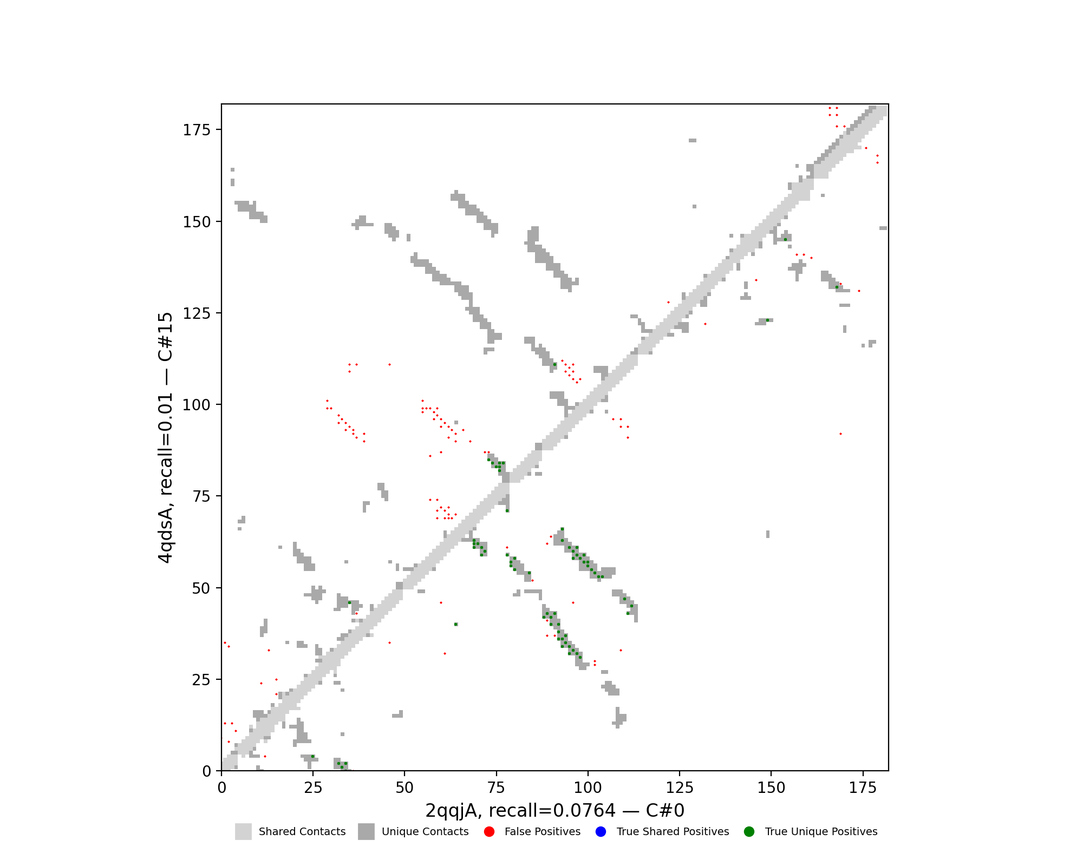
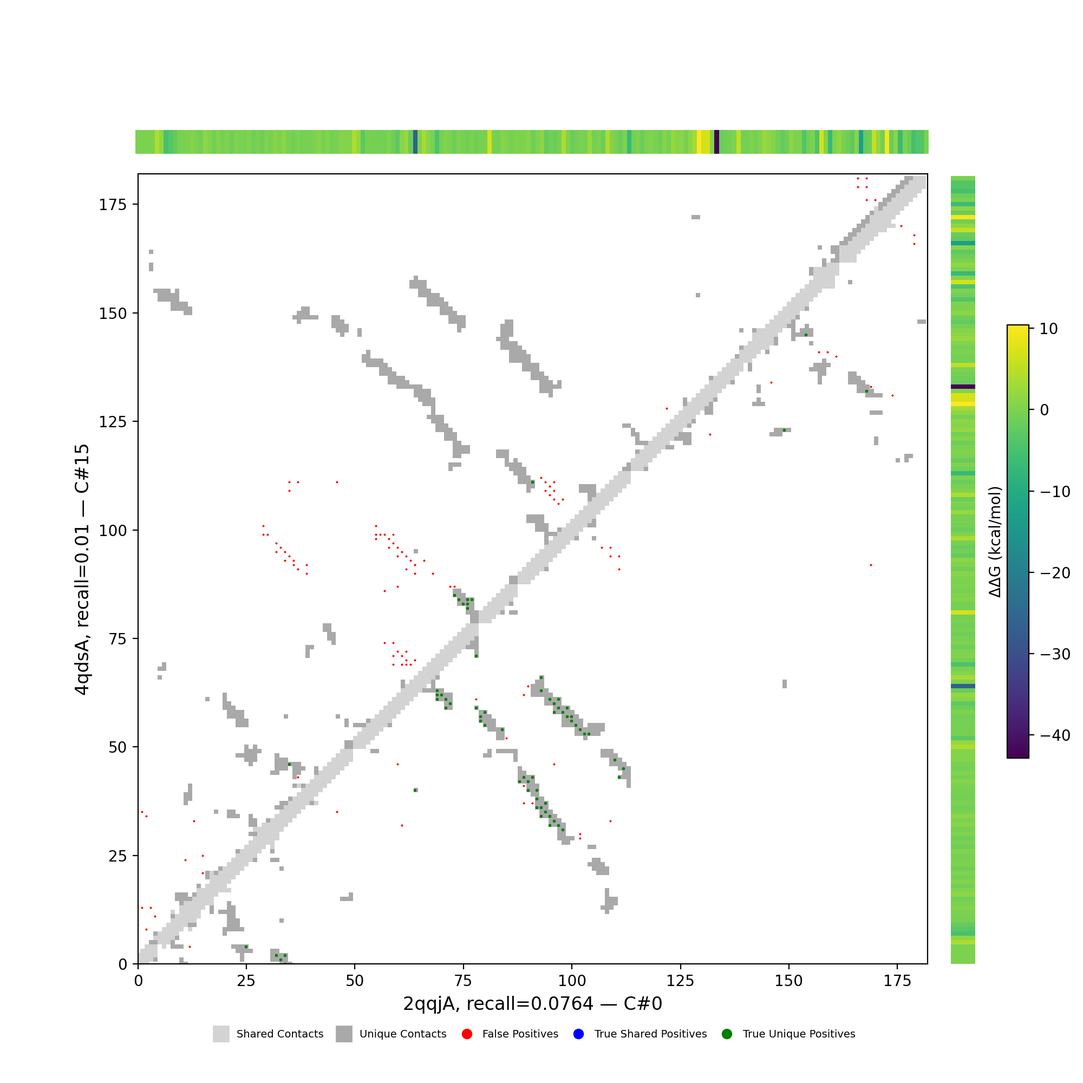
Add ΔG columns and per-pair ΔΔG table for 2qqjA_4qdsA

diff --git a/docs/HTML/2qqjA_4qdsA.html b/docs/HTML/2qqjA_4qdsA.html
@@ -142,8 +142,11 @@
     </div></div><div class="figure-block">
     <h2 class="figcap">Figure 13: All clusters contact-map mosaic (small multiples).</h2>
     <figure class="imgbox"><img src="figs/2qqjA_4qdsA/2qqjA_4qdsA_all_clusters_cmap.png"/></figure>
-    </div><h2>Per-cluster contact maps</h2><div class="figure-block tree">
-    <h2 class="figcap">Figure 14: Phylogenetic tree with per-cluster heatmap.</h2>
+    </div><h2>Per-cluster contact maps</h2><div class="figure-block">
+    <h2 class="figcap">Figure 14: Aligned per-residue ΔΔG (seq alignment overlay).</h2>
+    <figure class="imgbox"><img src="figs/2qqjA_4qdsA/2qqjA_4qdsA_ddg_aligned.png"/></figure>
+    </div><div class="figure-block tree">
+    <h2 class="figcap">Figure 15: Phylogenetic tree with per-cluster heatmap.</h2>
     <figure class="imgbox"><img src="figs/2qqjA_4qdsA/2qqjA_4qdsA_phytree_cluster.png"/></figure>
     </div><div class="table-wrap"><h2>Cluster metrics table</h2><table><tr><th>cluster</th><th>TM-AF1</th><th>TM-AF2</th><th>TM-ESM1</th><th>TM-ESM2</th><th>RE-MSAT-COM</th><th>RE-MSAT1</th><th>RE-MSAT2</th></tr><tr><td>Deep</td><td>0.99</td><td>0.52</td><td>-</td><td>-</td><td>-0.01</td><td>-0.01</td><td>-0.01</td></tr><tr><td>000</td><td>0.98</td><td>0.52</td><td>0.97</td><td>0.59</td><td>-0.01</td><td>-0.01</td><td>-0.01</td></tr><tr><td>001</td><td>0.96</td><td>0.52</td><td>0.97</td><td>0.6</td><td>-0.0</td><td>-0.0</td><td>-0.0</td></tr><tr><td>002</td><td>0.96</td><td>0.51</td><td>0.97</td><td>0.54</td><td>-0.0</td><td>-0.0</td><td>-0.0</td></tr><tr><td>003</td><td>0.62</td><td>0.5</td><td>0.97</td><td>0.66</td><td>-0.01</td><td>-0.0</td><td>-0.0</td></tr><tr><td>004</td><td>0.56</td><td>0.57</td><td>0.97</td><td>0.62</td><td>0.0</td><td>-0.0</td><td>-0.0</td></tr><tr><td>005</td><td>0.97</td><td>0.51</td><td>0.97</td><td>0.57</td><td>-0.0</td><td>-0.0</td><td>-0.0</td></tr><tr><td>006</td><td>0.96</td><td>0.52</td><td>0.97</td><td>0.58</td><td>-</td><td>-</td><td>-</td></tr><tr><td>007</td><td>0.73</td><td>0.58</td><td>0.97</td><td>0.52</td><td>-0.0</td><td>-0.0</td><td>-0.0</td></tr><tr><td>008</td><td>0.56</td><td>0.5</td><td>0.97</td><td>0.56</td><td>0.01</td><td>-0.0</td><td>-0.0</td></tr><tr><td>009</td><td>0.96</td><td>0.51</td><td>0.97</td><td>0.56</td><td>-</td><td>-</td><td>-</td></tr><tr><td>010</td><td>0.96</td><td>0.51</td><td>0.97</td><td>0.52</td><td>-</td><td>-</td><td>-</td></tr><tr><td>011</td><td>0.96</td><td>0.52</td><td>0.97</td><td>0.53</td><td>-</td><td>-</td><td>-</td></tr><tr><td>012</td><td>0.58</td><td>0.6</td><td>0.97</td><td>0.52</td><td>-0.0</td><td>-0.0</td><td>-0.0</td></tr><tr><td>013</td><td>0.58</td><td>0.6</td><td>0.97</td><td>0.52</td><td>-0.0</td><td>-0.0</td><td>-0.0</td></tr><tr><td>014</td><td>0.85</td><td>0.49</td><td>0.97</td><td>0.52</td><td>-0.01</td><td>-0.0</td><td>-0.0</td></tr><tr><td>015</td><td>0.74</td><td>0.49</td><td>0.97</td><td>0.52</td><td>-0.01</td><td>-0.0</td><td>-0.0</td></tr><tr><td>016</td><td>0.77</td><td>0.46</td><td>0.97</td><td>0.52</td><td>-0.01</td><td>-0.0</td><td>-0.0</td></tr><tr><td>017</td><td>0.86</td><td>0.5</td><td>0.97</td><td>0.52</td><td>-0.0</td><td>-0.0</td><td>-0.0</td></tr><tr><td>018</td><td>0.52</td><td>0.38</td><td>0.97</td><td>0.52</td><td>-0.0</td><td>-0.0</td><td>-0.0</td></tr><tr><td>019</td><td>0.54</td><td>0.41</td><td>0.97</td><td>0.52</td><td>-</td><td>-</td><td>-</td></tr><tr><td>020</td><td>0.53</td><td>0.41</td><td>0.97</td><td>0.52</td><td>0.0</td><td>-0.0</td><td>-0.0</td></tr><tr><td>021</td><td>0.83</td><td>0.49</td><td>0.97</td><td>0.52</td><td>-0.0</td><td>-0.0</td><td>-0.0</td></tr><tr><td>022</td><td>0.64</td><td>0.51</td><td>0.97</td><td>0.52</td><td>-0.0</td><td>-0.0</td><td>-0.0</td></tr><tr><td>023</td><td>0.96</td><td>0.51</td><td>0.97</td><td>0.52</td><td>-</td><td>-</td><td>-</td></tr><tr><td>024</td><td>0.95</td><td>0.51</td><td>0.97</td><td>0.56</td><td>-</td><td>-</td><td>-</td></tr><tr><td>025</td><td>0.96</td><td>0.51</td><td>0.97</td><td>0.52</td><td>-</td><td>-</td><td>-</td></tr></table></div><div class="table-wrap"><h2>Aligned per-residue ΔΔG</h2><table><tr><th>aln_pos</th><th>aa1</th><th>aa2</th><th>E1</th><th>E2</th><th>dEdiff</th></tr><tr><td>1</td><td>-</td><td>S</td><td>-</td><td>3.61</td><td>-</td></tr><tr><td>2</td><td>-</td><td>H</td><td>-</td><td>18.49</td><td>-</td></tr><tr><td>3</td><td>-</td><td>M</td><td>-</td><td>22.95</td><td>-</td></tr><tr><td>4</td><td>-</td><td>F</td><td>-</td><td>2.04</td><td>-</td></tr><tr><td>5</td><td>Q</td><td>Q</td><td>2.66</td><td>2.69</td><td>-0.03</td></tr><tr><td>6</td><td>C</td><td>C</td><td>6.0</td><td>2.22</td><td>3.77</td></tr><tr><td>7</td><td>N</td><td>N</td><td>1.11</td><td>-0.37</td><td>1.48</td></tr><tr><td>8</td><td>V</td><td>V</td><td>-0.28</td><td>4.72</td><td>-5.0</td></tr><tr><td>9</td><td>P</td><td>P</td><td>-3.92</td><td>-0.59</td><td>-3.33</td></tr><tr><td>10</td><td>L</td><td>L</td><td>-3.72</td><td>-1.38</td><td>-2.34</td></tr><tr><td>11</td><td>G</td><td>G</td><td>-2.24</td><td>-1.69</td><td>-0.55</td></tr><tr><td>12</td><td>M</td><td>M</td><td>-2.65</td><td>-2.42</td><td>-0.23</td></tr><tr><td>13</td><td>E</td><td>E</td><td>-0.08</td><td>0.0</td><td>-0.08</td></tr><tr><td>14</td><td>S</td><td>S</td><td>0.33</td><td>-0.11</td><td>0.44</td></tr><tr><td>15</td><td>G</td><td>G</td><td>-1.6</td><td>-1.22</td><td>-0.39</td></tr><tr><td>16</td><td>R</td><td>R</td><td>7.51</td><td>8.37</td><td>-0.86</td></tr><tr><td>17</td><td>I</td><td>I</td><td>-3.85</td><td>-5.15</td><td>1.3</td></tr><tr><td>18</td><td>A</td><td>A</td><td>-1.15</td><td>-1.53</td><td>0.38</td></tr><tr><td>19</td><td>N</td><td>N</td><td>-1.14</td><td>-0.14</td><td>-1.01</td></tr><tr><td>20</td><td>E</td><td>E</td><td>2.25</td><td>1.97</td><td>0.28</td></tr><tr><td>21</td><td>Q</td><td>Q</td><td>-4.45</td><td>-3.64</td><td>-0.82</td></tr><tr><td>22</td><td>I</td><td>I</td><td>-3.38</td><td>-3.5</td><td>0.12</td></tr><tr><td>23</td><td>S</td><td>S</td><td>-2.99</td><td>-1.83</td><td>-1.17</td></tr><tr><td>24</td><td>A</td><td>A</td><td>-1.58</td><td>-1.6</td><td>0.02</td></tr><tr><td>25</td><td>S</td><td>S</td><td>1.74</td><td>2.05</td><td>-0.31</td></tr><tr><td>26</td><td>S</td><td>S</td><td>-2.11</td><td>-1.57</td><td>-0.54</td></tr><tr><td>27</td><td>T</td><td>T</td><td>0.58</td><td>0.16</td><td>0.42</td></tr><tr><td>28</td><td>Y</td><td>Y</td><td>2.14</td><td>3.34</td><td>-1.2</td></tr><tr><td>29</td><td>S</td><td>S</td><td>-0.3</td><td>0.03</td><td>-0.32</td></tr><tr><td>30</td><td>D</td><td>D</td><td>-0.62</td><td>0.47</td><td>-1.1</td></tr><tr><td>31</td><td>G</td><td>G</td><td>-0.94</td><td>-1.03</td><td>0.08</td></tr><tr><td>32</td><td>R</td><td>R</td><td>-0.39</td><td>0.17</td><td>-0.56</td></tr><tr><td>33</td><td>W</td><td>W</td><td>1.05</td><td>0.25</td><td>0.79</td></tr><tr><td>34</td><td>T</td><td>T</td><td>1.43</td><td>1.53</td><td>-0.1</td></tr><tr><td>35</td><td>P</td><td>P</td><td>-2.62</td><td>-3.69</td><td>1.07</td></tr><tr><td>36</td><td>Q</td><td>Q</td><td>1.13</td><td>1.44</td><td>-0.31</td></tr><tr><td>37</td><td>Q</td><td>Q</td><td>0.35</td><td>1.35</td><td>-1.0</td></tr><tr><td>38</td><td>S</td><td>S</td><td>-1.23</td><td>-1.16</td><td>-0.07</td></tr><tr><td>39</td><td>R</td><td>R</td><td>-3.94</td><td>-3.21</td><td>-0.73</td></tr><tr><td>40</td><td>L</td><td>L</td><td>-2.39</td><td>-1.78</td><td>-0.6</td></tr><tr><td>41</td><td>H</td><td>H</td><td>-1.76</td><td>-1.18</td><td>-0.58</td></tr><tr><td>42</td><td>G</td><td>G</td><td>1.74</td><td>1.75</td><td>-0.01</td></tr><tr><td>43</td><td>D</td><td>D</td><td>0.96</td><td>0.29</td><td>0.66</td></tr><tr><td>44</td><td>D</td><td>D</td><td>-1.67</td><td>-1.23</td><td>-0.43</td></tr><tr><td>45</td><td>N</td><td>N</td><td>-2.88</td><td>-3.22</td><td>0.34</td></tr><tr><td>46</td><td>G</td><td>G</td><td>-0.17</td><td>0.57</td><td>-0.74</td></tr><tr><td>47</td><td>W</td><td>W</td><td>-5.08</td><td>-4.55</td><td>-0.53</td></tr><tr><td>48</td><td>T</td><td>T</td><td>0.47</td><td>0.05</td><td>0.42</td></tr><tr><td>49</td><td>P</td><td>P</td><td>-5.74</td><td>-6.24</td><td>0.5</td></tr><tr><td>50</td><td>N</td><td>N</td><td>1.42</td><td>0.87</td><td>0.56</td></tr><tr><td>51</td><td>L</td><td>L</td><td>6.77</td><td>2.95</td><td>3.82</td></tr><tr><td>52</td><td>D</td><td>D</td><td>-0.09</td><td>-2.08</td><td>1.99</td></tr><tr><td>53</td><td>S</td><td>S</td><td>-0.95</td><td>2.08</td><td>-3.02</td></tr><tr><td>54</td><td>N</td><td>N</td><td>0.43</td><td>1.0</td><td>-0.57</td></tr><tr><td>55</td><td>K</td><td>K</td><td>3.3</td><td>3.75</td><td>-0.46</td></tr><tr><td>56</td><td>E</td><td>E</td><td>1.02</td><td>1.84</td><td>-0.81</td></tr><tr><td>57</td><td>Y</td><td>Y</td><td>-4.48</td><td>-3.66</td><td>-0.82</td></tr><tr><td>58</td><td>L</td><td>L</td><td>-5.46</td><td>-4.51</td><td>-0.95</td></tr><tr><td>59</td><td>Q</td><td>Q</td><td>-2.78</td><td>-2.95</td><td>0.17</td></tr><tr><td>60</td><td>V</td><td>V</td><td>-5.15</td><td>-3.75</td><td>-1.4</td></tr><tr><td>61</td><td>D</td><td>D</td><td>-7.5</td><td>-4.61</td><td>-2.89</td></tr><tr><td>62</td><td>L</td><td>L</td><td>-2.95</td><td>-3.67</td><td>0.72</td></tr><tr><td>63</td><td>R</td><td>R</td><td>7.78</td><td>5.79</td><td>1.99</td></tr><tr><td>64</td><td>F</td><td>F</td><td>5.1</td><td>6.87</td><td>-1.77</td></tr><tr><td>65</td><td>L</td><td>L</td><td>0.57</td><td>27.11</td><td>-26.54</td></tr><tr><td>66</td><td>T</td><td>T</td><td>-1.58</td><td>-1.76</td><td>0.18</td></tr><tr><td>67</td><td>M</td><td>M</td><td>2.03</td><td>-1.29</td><td>3.32</td></tr><tr><td>68</td><td>L</td><td>L</td><td>-5.17</td><td>-5.83</td><td>0.66</td></tr><tr><td>69</td><td>T</td><td>T</td><td>-2.92</td><td>-2.6</td><td>-0.32</td></tr><tr><td>70</td><td>A</td><td>A</td><td>-3.23</td><td>1.43</td><td>-4.66</td></tr><tr><td>71</td><td>I</td><td>I</td><td>-5.98</td><td>-5.18</td><td>-0.8</td></tr><tr><td>72</td><td>A</td><td>A</td><td>-2.54</td><td>-2.81</td><td>0.27</td></tr><tr><td>73</td><td>T</td><td>T</td><td>-2.63</td><td>-2.52</td><td>-0.11</td></tr><tr><td>74</td><td>Q</td><td>Q</td><td>-3.76</td><td>-2.39</td><td>-1.37</td></tr><tr><td>75</td><td>G</td><td>G</td><td>-3.1</td><td>-3.22</td><td>0.12</td></tr><tr><td>76</td><td>A</td><td>A</td><td>-2.77</td><td>-2.36</td><td>-0.42</td></tr><tr><td>77</td><td>I</td><td>I</td><td>-2.12</td><td>-0.95</td><td>-1.16</td></tr><tr><td>78</td><td>S</td><td>S</td><td>-1.96</td><td>-1.55</td><td>-0.41</td></tr><tr><td>79</td><td>R</td><td>R</td><td>4.08</td><td>5.21</td><td>-1.13</td></tr><tr><td>80</td><td>E</td><td>E</td><td>0.11</td><td>0.36</td><td>-0.25</td></tr><tr><td>81</td><td>T</td><td>T</td><td>-0.21</td><td>0.27</td><td>-0.48</td></tr><tr><td>82</td><td>Q</td><td>Q</td><td>8.6</td><td>1.54</td><td>7.06</td></tr><tr><td>83</td><td>N</td><td>N</td><td>-1.56</td><td>-0.95</td><td>-0.61</td></tr><tr><td>84</td><td>G</td><td>G</td><td>1.08</td><td>1.84</td><td>-0.75</td></tr><tr><td>85</td><td>Y</td><td>Y</td><td>-3.05</td><td>-3.78</td><td>0.74</td></tr><tr><td>86</td><td>Y</td><td>Y</td><td>-4.35</td><td>-4.44</td><td>0.09</td></tr><tr><td>87</td><td>V</td><td>V</td><td>-4.48</td><td>-4.02</td><td>-0.47</td></tr><tr><td>88</td><td>K</td><td>K</td><td>-0.27</td><td>-0.34</td><td>0.07</td></tr><tr><td>89</td><td>S</td><td>S</td><td>-2.29</td><td>-2.19</td><td>-0.1</td></tr><tr><td>90</td><td>Y</td><td>Y</td><td>-6.29</td><td>-6.44</td><td>0.15</td></tr><tr><td>91</td><td>K</td><td>K</td><td>-3.89</td><td>-4.6</td><td>0.7</td></tr><tr><td>92</td><td>L</td><td>L</td><td>-5.67</td><td>-4.58</td><td>-1.09</td></tr><tr><td>93</td><td>E</td><td>E</td><td>-3.13</td><td>-3.39</td><td>0.26</td></tr><tr><td>94</td><td>V</td><td>V</td><td>-1.85</td><td>-2.97</td><td>1.12</td></tr><tr><td>95</td><td>S</td><td>S</td><td>-4.77</td><td>-2.63</td><td>-2.14</td></tr><tr><td>96</td><td>T</td><td>T</td><td>-0.86</td><td>0.12</td><td>-0.98</td></tr><tr><td>97</td><td>N</td><td>N</td><td>-2.01</td><td>-0.44</td><td>-1.57</td></tr><tr><td>98</td><td>G</td><td>G</td><td>-2.8</td><td>-2.37</td><td>-0.43</td></tr><tr><td>99</td><td>E</td><td>E</td><td>5.17</td><td>1.57</td><td>3.6</td></tr><tr><td>100</td><td>D</td><td>D</td><td>-0.72</td><td>-0.93</td><td>0.2</td></tr><tr><td>101</td><td>W</td><td>W</td><td>-3.41</td><td>-1.84</td><td>-1.57</td></tr><tr><td>102</td><td>M</td><td>M</td><td>-0.38</td><td>0.41</td><td>-0.79</td></tr><tr><td>103</td><td>V</td><td>V</td><td>-1.81</td><td>-1.47</td><td>-0.34</td></tr><tr><td>104</td><td>Y</td><td>Y</td><td>-3.17</td><td>-2.67</td><td>-0.5</td></tr><tr><td>105</td><td>R</td><td>R</td><td>5.0</td><td>2.81</td><td>2.19</td></tr><tr><td>106</td><td>H</td><td>H</td><td>3.23</td><td>4.02</td><td>-0.8</td></tr><tr><td>107</td><td>G</td><td>G</td><td>0.13</td><td>0.33</td><td>-0.19</td></tr><tr><td>108</td><td>K</td><td>K</td><td>2.6</td><td>4.26</td><td>-1.65</td></tr><tr><td>109</td><td>N</td><td>N</td><td>8.89</td><td>5.02</td><td>3.86</td></tr><tr><td>110</td><td>H</td><td>H</td><td>1.2</td><td>0.59</td><td>0.62</td></tr><tr><td>111</td><td>K</td><td>K</td><td>-0.47</td><td>0.06</td><td>-0.53</td></tr><tr><td>112</td><td>V</td><td>V</td><td>0.11</td><td>1.66</td><td>-1.55</td></tr><tr><td>113</td><td>F</td><td>F</td><td>-4.47</td><td>-4.5</td><td>0.03</td></tr><tr><td>114</td><td>Q</td><td>Q</td><td>1.86</td><td>8.87</td><td>-7.01</td></tr><tr><td>115</td><td>A</td><td>A</td><td>2.18</td><td>3.12</td><td>-0.94</td></tr><tr><td>116</td><td>N</td><td>N</td><td>4.74</td><td>4.91</td><td>-0.18</td></tr><tr><td>117</td><td>N</td><td>N</td><td>0.18</td><td>1.97</td><td>-1.79</td></tr><tr><td>118</td><td>D</td><td>D</td><td>-0.73</td><td>-0.59</td><td>-0.14</td></tr><tr><td>119</td><td>A</td><td>A</td><td>-1.09</td><td>-1.45</td><td>0.36</td></tr><tr><td>120</td><td>T</td><td>T</td><td>-0.51</td><td>-0.19</td><td>-0.32</td></tr><tr><td>121</td><td>E</td><td>E</td><td>2.19</td><td>3.26</td><td>-1.07</td></tr><tr><td>122</td><td>V</td><td>V</td><td>-1.22</td><td>-2.02</td><td>0.81</td></tr><tr><td>123</td><td>V</td><td>V</td><td>-1.4</td><td>-0.66</td><td>-0.74</td></tr><tr><td>124</td><td>L</td><td>L</td><td>0.3</td><td>-1.7</td><td>2.0</td></tr><tr><td>125</td><td>N</td><td>N</td><td>-1.76</td><td>-2.4</td><td>0.64</td></tr><tr><td>126</td><td>K</td><td>K</td><td>2.1</td><td>0.91</td><td>1.19</td></tr><tr><td>127</td><td>L</td><td>L</td><td>-3.13</td><td>-2.71</td><td>-0.42</td></tr><tr><td>128</td><td>H</td><td>H</td><td>4.95</td><td>3.61</td><td>1.35</td></tr><tr><td>129</td><td>A</td><td>A</td><td>4.53</td><td>1.29</td><td>3.24</td></tr><tr><td>130</td><td>P</td><td>P</td><td>5.59</td><td>-4.81</td><td>10.4</td></tr><tr><td>131</td><td>L</td><td>L</td><td>3.12</td><td>-3.86</td><td>6.98</td></tr><tr><td>132</td><td>L</td><td>L</td><td>2.3</td><td>-4.81</td><td>7.11</td></tr><tr><td>133</td><td>T</td><td>T</td><td>-0.11</td><td>-0.66</td><td>0.55</td></tr><tr><td>134</td><td>R</td><td>R</td><td>-2.44</td><td>40.39</td><td>-42.83</td></tr><tr><td>135</td><td>F</td><td>F</td><td>-3.03</td><td>-1.35</td><td>-1.67</td></tr><tr><td>136</td><td>V</td><td>V</td><td>-4.77</td><td>-3.72</td><td>-1.05</td></tr><tr><td>137</td><td>R</td><td>R</td><td>-5.03</td><td>-4.21</td><td>-0.82</td></tr><tr><td>138</td><td>I</td><td>I</td><td>-5.3</td><td>-5.4</td><td>0.11</td></tr><tr><td>139</td><td>R</td><td>R</td><td>4.29</td><td>-0.94</td><td>5.23</td></tr><tr><td>140</td><td>P</td><td>P</td><td>-6.53</td><td>-5.81</td><td>-0.72</td></tr><tr><td>141</td><td>Q</td><td>Q</td><td>-1.67</td><td>-1.04</td><td>-0.63</td></tr><tr><td>142</td><td>T</td><td>T</td><td>1.07</td><td>0.94</td><td>0.13</td></tr><tr><td>143</td><td>W</td><td>W</td><td>-3.38</td><td>-2.61</td><td>-0.77</td></tr><tr><td>144</td><td>H</td><td>H</td><td>2.63</td><td>2.36</td><td>0.27</td></tr><tr><td>145</td><td>S</td><td>S</td><td>5.72</td><td>3.45</td><td>2.27</td></tr><tr><td>146</td><td>G</td><td>G</td><td>1.09</td><td>-0.14</td><td>1.23</td></tr><tr><td>147</td><td>I</td><td>I</td><td>-3.12</td><td>-3.69</td><td>0.57</td></tr><tr><td>148</td><td>A</td><td>A</td><td>-2.09</td><td>-1.35</td><td>-0.74</td></tr><tr><td>149</td><td>L</td><td>L</td><td>0.45</td><td>2.91</td><td>-2.46</td></tr><tr><td>150</td><td>R</td><td>R</td><td>-1.94</td><td>-0.8</td><td>-1.15</td></tr><tr><td>151</td><td>L</td><td>L</td><td>-1.53</td><td>-2.58</td><td>1.05</td></tr><tr><td>152</td><td>E</td><td>E</td><td>-5.66</td><td>-5.53</td><td>-0.13</td></tr><tr><td>153</td><td>L</td><td>L</td><td>-8.13</td><td>-8.02</td><td>-0.1</td></tr><tr><td>154</td><td>F</td><td>F</td><td>-5.88</td><td>-1.94</td><td>-3.94</td></tr><tr><td>155</td><td>G</td><td>G</td><td>-4.04</td><td>-3.05</td><td>-0.98</td></tr><tr><td>156</td><td>C</td><td>C</td><td>-0.17</td><td>-0.16</td><td>-0.01</td></tr><tr><td>157</td><td>R</td><td>R</td><td>4.12</td><td>8.75</td><td>-4.62</td></tr><tr><td>158</td><td>V</td><td>V</td><td>3.43</td><td>-3.61</td><td>7.04</td></tr><tr><td>159</td><td>T</td><td>T</td><td>1.23</td><td>0.73</td><td>0.51</td></tr><tr><td>160</td><td>D</td><td>D</td><td>-2.31</td><td>4.58</td><td>-6.89</td></tr><tr><td>161</td><td>A</td><td>A</td><td>0.38</td><td>0.35</td><td>0.03</td></tr><tr><td>162</td><td>P</td><td>P</td><td>-1.39</td><td>-2.85</td><td>1.46</td></tr><tr><td>163</td><td>C</td><td>C</td><td>1.99</td><td>2.39</td><td>-0.4</td></tr><tr><td>164</td><td>S</td><td>S</td><td>0.66</td><td>1.74</td><td>-1.08</td></tr><tr><td>165</td><td>N</td><td>N</td><td>0.73</td><td>3.51</td><td>-2.78</td></tr><tr><td>166</td><td>M</td><td>M</td><td>1.6</td><td>0.96</td><td>0.65</td></tr><tr><td>167</td><td>L</td><td>L</td><td>-2.18</td><td>10.83</td><td>-13.02</td></tr><tr><td>168</td><td>G</td><td>G</td><td>-1.86</td><td>0.44</td><td>-2.31</td></tr><tr><td>169</td><td>M</td><td>M</td><td>-2.28</td><td>-0.49</td><td>-1.79</td></tr><tr><td>170</td><td>L</td><td>L</td><td>1.53</td><td>-4.23</td><td>5.76</td></tr><tr><td>171</td><td>S</td><td>S</td><td>-0.37</td><td>-1.86</td><td>1.49</td></tr><tr><td>172</td><td>G</td><td>G</td><td>-1.01</td><td>-0.16</td><td>-0.86</td></tr><tr><td>173</td><td>L</td><td>L</td><td>7.72</td><td>-1.95</td><td>9.67</td></tr><tr><td>174</td><td>I</td><td>I</td><td>-4.05</td><td>-2.19</td><td>-1.86</td></tr><tr><td>175</td><td>A</td><td>A</td><td>-1.03</td><td>-2.19</td><td>1.16</td></tr><tr><td>176</td><td>D</td><td>D</td><td>-1.76</td><td>4.86</td><td>-6.62</td></tr><tr><td>177</td><td>S</td><td>S</td><td>0.37</td><td>0.61</td><td>-0.24</td></tr><tr><td>178</td><td>Q</td><td>Q</td><td>-2.81</td><td>-1.27</td><td>-1.55</td></tr><tr><td>179</td><td>I</td><td>I</td><td>-3.96</td><td>1.39</td><td>-5.35</td></tr><tr><td>180</td><td>S</td><td>S</td><td>-2.41</td><td>1.45</td><td>-3.85</td></tr><tr><td>181</td><td>A</td><td>A</td><td>-2.96</td><td>0.88</td><td>-3.84</td></tr><tr><td>182</td><td>S</td><td>-</td><td>1.74</td><td>-</td><td>-</td></tr><tr><td>183</td><td>S</td><td>S</td><td>-1.65</td><td>13.02</td><td>-14.67</td></tr><tr><td>184</td><td>T</td><td>-</td><td>-0.57</td><td>-</td><td>-</td></tr><tr><td>185</td><td>-</td><td>X</td><td>-</td><td>-0.17</td><td>-</td></tr><tr><td>186</td><td>-</td><td>F</td><td>-</td><td>-0.11</td><td>-</td></tr><tr><td>187</td><td>Q</td><td>Q</td><td>4.15</td><td>1.14</td><td>3.01</td></tr><tr><td>188</td><td>E</td><td>-</td><td>8.19</td><td>-</td><td>-</td></tr><tr><td>189</td><td>L</td><td>-</td><td>10.36</td><td>-</td><td>-</td></tr><tr><td>190</td><td>W</td><td>-</td><td>3.63</td><td>-</td><td>-</td></tr><tr><td>191</td><td>S</td><td>-</td><td>1.78</td><td>-</td><td>-</td></tr><tr><td>192</td><td>-</td><td>C</td><td>-</td><td>1.82</td><td>-</td></tr><tr><td>193</td><td>-</td><td>N</td><td>-</td><td>0.64</td><td>-</td></tr><tr><td>194</td><td>-</td><td>V</td><td>-</td><td>5.89</td><td>-</td></tr><tr><td>195</td><td>P</td><td>P</td><td>-3.83</td><td>-1.24</td><td>-2.59</td></tr><tr><td>196</td><td>-</td><td>L</td><td>-</td><td>-2.38</td><td>-</td></tr><tr><td>197</td><td>-</td><td>G</td><td>-</td><td>-1.95</td><td>-</td></tr><tr><td>198</td><td>-</td><td>M</td><td>-</td><td>-2.14</td><td>-</td></tr><tr><td>199</td><td>-</td><td>E</td><td>-</td><td>0.03</td><td>-</td></tr><tr><td>200</td><td>S</td><td>S</td><td>1.62</td><td>0.22</td><td>1.39</td></tr><tr><td>201</td><td>-</td><td>G</td><td>-</td><td>-0.88</td><td>-</td></tr><tr><td>202</td><td>-</td><td>R</td><td>-</td><td>10.69</td><td>-</td></tr><tr><td>203</td><td>-</td><td>I</td><td>-</td><td>-5.37</td><td>-</td></tr><tr><td>204</td><td>A</td><td>A</td><td>-1.16</td><td>-1.2</td><td>0.05</td></tr><tr><td>205</td><td>-</td><td>N</td><td>-</td><td>-1.05</td><td>-</td></tr><tr><td>206</td><td>-</td><td>E</td><td>-</td><td>3.66</td><td>-</td></tr><tr><td>207</td><td>-</td><td>Q</td><td>-</td><td>-3.57</td><td>-</td></tr><tr><td>208</td><td>-</td><td>I</td><td>-</td><td>-3.02</td><td>-</td></tr><tr><td>209</td><td>-</td><td>S</td><td>-</td><td>-2.48</td><td>-</td></tr><tr><td>210</td><td>A</td><td>A</td><td>-2.59</td><td>-1.61</td><td>-0.97</td></tr><tr><td>211</td><td>R</td><td>-</td><td>-3.25</td><td>-</td><td>-</td></tr><tr><td>212</td><td>L</td><td>-</td><td>-2.5</td><td>-</td><td>-</td></tr><tr><td>213</td><td>V</td><td>-</td><td>6.32</td><td>-</td><td>-</td></tr><tr><td>214</td><td>S</td><td>S</td><td>9.12</td><td>1.81</td><td>7.32</td></tr><tr><td>215</td><td>S</td><td>S</td><td>2.75</td><td>-1.89</td><td>4.65</td></tr><tr><td>216</td><td>R</td><td>-</td><td>3.35</td><td>-</td><td>-</td></tr><tr><td>217</td><td>-</td><td>T</td><td>-</td><td>0.42</td><td>-</td></tr><tr><td>218</td><td>-</td><td>Y</td><td>-</td><td>2.16</td><td>-</td></tr><tr><td>219</td><td>S</td><td>S</td><td>0.19</td><td>-0.01</td><td>0.2</td></tr><tr><td>220</td><td>-</td><td>D</td><td>-</td><td>0.92</td><td>-</td></tr><tr><td>221</td><td>G</td><td>G</td><td>-0.36</td><td>-1.33</td><td>0.97</td></tr><tr><td>222</td><td>W</td><td>-</td><td>-3.52</td><td>-</td><td>-</td></tr><tr><td>223</td><td>F</td><td>-</td><td>-3.22</td><td>-</td><td>-</td></tr><tr><td>224</td><td>P</td><td>-</td><td>-2.73</td><td>-</td><td>-</td></tr><tr><td>225</td><td>R</td><td>R</td><td>3.57</td><td>-0.1</td><td>3.67</td></tr><tr><td>226</td><td>I</td><td>-</td><td>5.3</td><td>-</td><td>-</td></tr><tr><td>227</td><td>-</td><td>W</td><td>-</td><td>0.83</td><td>-</td></tr><tr><td>228</td><td>-</td><td>T</td><td>-</td><td>1.25</td><td>-</td></tr><tr><td>229</td><td>P</td><td>P</td><td>-2.58</td><td>-5.09</td><td>2.51</td></tr><tr><td>230</td><td>Q</td><td>Q</td><td>6.5</td><td>0.74</td><td>5.76</td></tr><tr><td>231</td><td>A</td><td>-</td><td>1.69</td><td>-</td><td>-</td></tr><tr><td>232</td><td>Q</td><td>Q</td><td>5.96</td><td>0.85</td><td>5.11</td></tr><tr><td>233</td><td>P</td><td>-</td><td>-3.48</td><td>-</td><td>-</td></tr><tr><td>234</td><td>-</td><td>S</td><td>-</td><td>-1.49</td><td>-</td></tr><tr><td>235</td><td>-</td><td>R</td><td>-</td><td>-3.24</td><td>-</td></tr><tr><td>236</td><td>-</td><td>L</td><td>-</td><td>-1.09</td><td>-</td></tr><tr><td>237</td><td>-</td><td>H</td><td>-</td><td>-1.18</td><td>-</td></tr><tr><td>238</td><td>G</td><td>G</td><td>-1.67</td><td>1.79</td><td>-3.46</td></tr><tr><td>239</td><td>E</td><td>-</td><td>3.85</td><td>-</td><td>-</td></tr><tr><td>240</td><td>E</td><td>-</td><td>0.37</td><td>-</td><td>-</td></tr><tr><td>241</td><td>-</td><td>D</td><td>-</td><td>-0.05</td><td>-</td></tr><tr><td>242</td><td>-</td><td>D</td><td>-</td><td>-1.22</td><td>-</td></tr><tr><td>243</td><td>-</td><td>N</td><td>-</td><td>-2.96</td><td>-</td></tr><tr><td>244</td><td>-</td><td>G</td><td>-</td><td>-0.25</td><td>-</td></tr><tr><td>245</td><td>W</td><td>W</td><td>-4.19</td><td>-4.83</td><td>0.64</td></tr><tr><td>246</td><td>-</td><td>T</td><td>-</td><td>-0.6</td><td>-</td></tr><tr><td>247</td><td>-</td><td>P</td><td>-</td><td>-6.01</td><td>-</td></tr><tr><td>248</td><td>-</td><td>N</td><td>-</td><td>0.73</td><td>-</td></tr><tr><td>249</td><td>L</td><td>L</td><td>-5.21</td><td>2.83</td><td>-8.04</td></tr><tr><td>250</td><td>-</td><td>D</td><td>-</td><td>-1.46</td><td>-</td></tr><tr><td>251</td><td>-</td><td>S</td><td>-</td><td>0.5</td><td>-</td></tr><tr><td>252</td><td>-</td><td>N</td><td>-</td><td>1.23</td><td>-</td></tr><tr><td>253</td><td>-</td><td>K</td><td>-</td><td>2.49</td><td>-</td></tr><tr><td>254</td><td>-</td><td>E</td><td>-</td><td>1.43</td><td>-</td></tr><tr><td>255</td><td>-</td><td>Y</td><td>-</td><td>-3.23</td><td>-</td></tr><tr><td>256</td><td>-</td><td>L</td><td>-</td><td>-5.54</td><td>-</td></tr><tr><td>257</td><td>Q</td><td>Q</td><td>-2.88</td><td>-2.47</td><td>-0.41</td></tr><tr><td>258</td><td>V</td><td>V</td><td>-3.97</td><td>-4.63</td><td>0.66</td></tr><tr><td>259</td><td>D</td><td>D</td><td>-5.02</td><td>-4.83</td><td>-0.19</td></tr><tr><td>260</td><td>L</td><td>L</td><td>-3.65</td><td>-4.4</td><td>0.74</td></tr><tr><td>261</td><td>G</td><td>-</td><td>-2.3</td><td>-</td><td>-</td></tr><tr><td>262</td><td>-</td><td>R</td><td>-</td><td>5.04</td><td>-</td></tr><tr><td>263</td><td>-</td><td>F</td><td>-</td><td>7.39</td><td>-</td></tr><tr><td>264</td><td>-</td><td>L</td><td>-</td><td>-1.19</td><td>-</td></tr><tr><td>265</td><td>T</td><td>T</td><td>3.78</td><td>-1.64</td><td>5.42</td></tr><tr><td>266</td><td>P</td><td>-</td><td>-2.85</td><td>-</td><td>-</td></tr><tr><td>267</td><td>K</td><td>-</td><td>2.55</td><td>-</td><td>-</td></tr><tr><td>268</td><td>-</td><td>M</td><td>-</td><td>-2.19</td><td>-</td></tr><tr><td>269</td><td>-</td><td>L</td><td>-</td><td>-5.88</td><td>-</td></tr><tr><td>270</td><td>T</td><td>T</td><td>-2.04</td><td>-2.79</td><td>0.75</td></tr><tr><td>271</td><td>V</td><td>-</td><td>-4.24</td><td>-</td><td>-</td></tr><tr><td>272</td><td>K</td><td>-</td><td>4.05</td><td>-</td><td>-</td></tr><tr><td>273</td><td>G</td><td>-</td><td>-1.89</td><td>-</td><td>-</td></tr><tr><td>274</td><td>V</td><td>-</td><td>-2.29</td><td>-</td><td>-</td></tr><tr><td>275</td><td>I</td><td>-</td><td>-5.72</td><td>-</td><td>-</td></tr><tr><td>276</td><td>-</td><td>A</td><td>-</td><td>-1.48</td><td>-</td></tr><tr><td>277</td><td>I</td><td>I</td><td>-3.95</td><td>-2.95</td><td>-1.0</td></tr><tr><td>278</td><td>-</td><td>A</td><td>-</td><td>-2.91</td><td>-</td></tr><tr><td>279</td><td>-</td><td>T</td><td>-</td><td>-2.13</td><td>-</td></tr><tr><td>280</td><td>Q</td><td>Q</td><td>-3.47</td><td>-2.19</td><td>-1.28</td></tr><tr><td>281</td><td>G</td><td>G</td><td>-3.05</td><td>-3.29</td><td>0.24</td></tr><tr><td>282</td><td>A</td><td>A</td><td>-1.94</td><td>-2.42</td><td>0.48</td></tr><tr><td>283</td><td>-</td><td>I</td><td>-</td><td>-0.57</td><td>-</td></tr><tr><td>284</td><td>-</td><td>S</td><td>-</td><td>-1.92</td><td>-</td></tr><tr><td>285</td><td>R</td><td>R</td><td>3.54</td><td>8.01</td><td>-4.48</td></tr><tr><td>286</td><td>G</td><td>-</td><td>-0.93</td><td>-</td><td>-</td></tr><tr><td>287</td><td>G</td><td>-</td><td>13.69</td><td>-</td><td>-</td></tr><tr><td>288</td><td>A</td><td>-</td><td>1.61</td><td>-</td><td>-</td></tr><tr><td>289</td><td>V</td><td>-</td><td>1.42</td><td>-</td><td>-</td></tr><tr><td>290</td><td>E</td><td>E</td><td>2.77</td><td>0.77</td><td>1.99</td></tr><tr><td>291</td><td>A</td><td>-</td><td>2.06</td><td>-</td><td>-</td></tr><tr><td>292</td><td>R</td><td>-</td><td>0.28</td><td>-</td><td>-</td></tr><tr><td>293</td><td>A</td><td>-</td><td>-1.53</td><td>-</td><td>-</td></tr><tr><td>294</td><td>F</td><td>-</td><td>-4.92</td><td>-</td><td>-</td></tr><tr><td>295</td><td>-</td><td>T</td><td>-</td><td>0.55</td><td>-</td></tr><tr><td>296</td><td>-</td><td>Q</td><td>-</td><td>1.23</td><td>-</td></tr><tr><td>297</td><td>-</td><td>N</td><td>-</td><td>-0.93</td><td>-</td></tr><tr><td>298</td><td>-</td><td>G</td><td>-</td><td>1.26</td><td>-</td></tr><tr><td>299</td><td>-</td><td>Y</td><td>-</td><td>-3.6</td><td>-</td></tr><tr><td>300</td><td>-</td><td>Y</td><td>-</td><td>-4.46</td><td>-</td></tr><tr><td>301</td><td>V</td><td>V</td><td>-5.14</td><td>-4.27</td><td>-0.87</td></tr><tr><td>302</td><td>R</td><td>-</td><td>0.56</td><td>-</td><td>-</td></tr><tr><td>303</td><td>K</td><td>-</td><td>4.58</td><td>-</td><td>-</td></tr><tr><td>304</td><td>F</td><td>-</td><td>-6.71</td><td>-</td><td>-</td></tr><tr><td>305</td><td>K</td><td>K</td><td>-0.14</td><td>1.61</td><td>-1.75</td></tr><tr><td>306</td><td>V</td><td>-</td><td>-4.09</td><td>-</td><td>-</td></tr><tr><td>307</td><td>S</td><td>S</td><td>-1.21</td><td>-2.53</td><td>1.32</td></tr><tr><td>308</td><td>Y</td><td>Y</td><td>-3.24</td><td>-5.86</td><td>2.62</td></tr><tr><td>309</td><td>S</td><td>-</td><td>-2.54</td><td>-</td><td>-</td></tr><tr><td>310</td><td>-</td><td>K</td><td>-</td><td>-4.81</td><td>-</td></tr><tr><td>311</td><td>L</td><td>L</td><td>0.81</td><td>-5.12</td><td>5.93</td></tr><tr><td>312</td><td>-</td><td>E</td><td>-</td><td>-3.71</td><td>-</td></tr><tr><td>313</td><td>-</td><td>V</td><td>-</td><td>-4.11</td><td>-</td></tr><tr><td>314</td><td>-</td><td>S</td><td>-</td><td>-2.6</td><td>-</td></tr><tr><td>315</td><td>-</td><td>T</td><td>-</td><td>-0.89</td><td>-</td></tr><tr><td>316</td><td>N</td><td>N</td><td>-0.51</td><td>-0.8</td><td>0.29</td></tr><tr><td>317</td><td>G</td><td>G</td><td>-3.11</td><td>-1.94</td><td>-1.17</td></tr><tr><td>318</td><td>K</td><td>-</td><td>-0.35</td><td>-</td><td>-</td></tr><tr><td>319</td><td>-</td><td>E</td><td>-</td><td>0.68</td><td>-</td></tr><tr><td>320</td><td>D</td><td>D</td><td>1.91</td><td>-0.42</td><td>2.33</td></tr><tr><td>321</td><td>W</td><td>W</td><td>-2.5</td><td>6.88</td><td>-9.38</td></tr><tr><td>322</td><td>E</td><td>-</td><td>-0.81</td><td>-</td><td>-</td></tr><tr><td>323</td><td>-</td><td>M</td><td>-</td><td>-0.02</td><td>-</td></tr><tr><td>324</td><td>-</td><td>V</td><td>-</td><td>-1.84</td><td>-</td></tr><tr><td>325</td><td>Y</td><td>Y</td><td>-2.3</td><td>-2.01</td><td>-0.29</td></tr><tr><td>326</td><td>I</td><td>-</td><td>-2.85</td><td>-</td><td>-</td></tr><tr><td>327</td><td>Q</td><td>-</td><td>0.1</td><td>-</td><td>-</td></tr><tr><td>328</td><td>D</td><td>-</td><td>-2.07</td><td>-</td><td>-</td></tr><tr><td>329</td><td>P</td><td>-</td><td>0.64</td><td>-</td><td>-</td></tr><tr><td>330</td><td>R</td><td>R</td><td>5.25</td><td>11.61</td><td>-6.36</td></tr><tr><td>331</td><td>T</td><td>-</td><td>1.41</td><td>-</td><td>-</td></tr><tr><td>332</td><td>Q</td><td>-</td><td>2.27</td><td>-</td><td>-</td></tr><tr><td>333</td><td>Q</td><td>-</td><td>2.66</td><td>-</td><td>-</td></tr><tr><td>334</td><td>P</td><td>-</td><td>-4.87</td><td>-</td><td>-</td></tr><tr><td>335</td><td>K</td><td>-</td><td>-1.75</td><td>-</td><td>-</td></tr><tr><td>336</td><td>L</td><td>-</td><td>4.1</td><td>-</td><td>-</td></tr><tr><td>337</td><td>F</td><td>-</td><td>-4.62</td><td>-</td><td>-</td></tr><tr><td>338</td><td>E</td><td>-</td><td>-1.49</td><td>-</td><td>-</td></tr><tr><td>339</td><td>-</td><td>H</td><td>-</td><td>3.57</td><td>-</td></tr><tr><td>340</td><td>G</td><td>G</td><td>-2.79</td><td>0.57</td><td>-3.36</td></tr><tr><td>341</td><td>-</td><td>K</td><td>-</td><td>3.2</td><td>-</td></tr><tr><td>342</td><td>N</td><td>N</td><td>-0.56</td><td>-0.18</td><td>-0.38</td></tr><tr><td>343</td><td>M</td><td>-</td><td>6.67</td><td>-</td><td>-</td></tr><tr><td>344</td><td>H</td><td>H</td><td>-1.77</td><td>0.23</td><td>-2.01</td></tr><tr><td>345</td><td>Y</td><td>-</td><td>-1.55</td><td>-</td><td>-</td></tr><tr><td>346</td><td>-</td><td>K</td><td>-</td><td>0.56</td><td>-</td></tr><tr><td>347</td><td>-</td><td>V</td><td>-</td><td>-0.42</td><td>-</td></tr><tr><td>348</td><td>-</td><td>F</td><td>-</td><td>-4.58</td><td>-</td></tr><tr><td>349</td><td>-</td><td>Q</td><td>-</td><td>9.54</td><td>-</td></tr><tr><td>350</td><td>-</td><td>A</td><td>-</td><td>3.46</td><td>-</td></tr><tr><td>351</td><td>-</td><td>N</td><td>-</td><td>5.14</td><td>-</td></tr><tr><td>352</td><td>-</td><td>N</td><td>-</td><td>3.33</td><td>-</td></tr><tr><td>353</td><td>D</td><td>D</td><td>-1.39</td><td>0.86</td><td>-2.25</td></tr><tr><td>354</td><td>-</td><td>A</td><td>-</td><td>-1.68</td><td>-</td></tr><tr><td>355</td><td>T</td><td>T</td><td>2.69</td><td>-1.22</td><td>3.91</td></tr><tr><td>356</td><td>-</td><td>E</td><td>-</td><td>2.23</td><td>-</td></tr><tr><td>357</td><td>-</td><td>V</td><td>-</td><td>-2.23</td><td>-</td></tr><tr><td>358</td><td>-</td><td>V</td><td>-</td><td>1.87</td><td>-</td></tr><tr><td>359</td><td>-</td><td>L</td><td>-</td><td>-1.44</td><td>-</td></tr><tr><td>360</td><td>-</td><td>N</td><td>-</td><td>-1.8</td><td>-</td></tr><tr><td>361</td><td>-</td><td>K</td><td>-</td><td>0.7</td><td>-</td></tr><tr><td>362</td><td>-</td><td>L</td><td>-</td><td>-3.27</td><td>-</td></tr><tr><td>363</td><td>-</td><td>H</td><td>-</td><td>3.97</td><td>-</td></tr><tr><td>364</td><td>-</td><td>A</td><td>-</td><td>0.4</td><td>-</td></tr><tr><td>365</td><td>P</td><td>P</td><td>44.53</td><td>-4.34</td><td>48.87</td></tr><tr><td>366</td><td>D</td><td>-</td><td>-1.17</td><td>-</td><td>-</td></tr><tr><td>367</td><td>I</td><td>-</td><td>4.79</td><td>-</td><td>-</td></tr><tr><td>368</td><td>R</td><td>-</td><td>0.03</td><td>-</td><td>-</td></tr><tr><td>369</td><td>-</td><td>L</td><td>-</td><td>-4.36</td><td>-</td></tr><tr><td>370</td><td>-</td><td>L</td><td>-</td><td>-5.16</td><td>-</td></tr><tr><td>371</td><td>-</td><td>T</td><td>-</td><td>-1.07</td><td>-</td></tr><tr><td>372</td><td>R</td><td>R</td><td>-0.92</td><td>-0.43</td><td>-0.49</td></tr><tr><td>373</td><td>F</td><td>F</td><td>-1.72</td><td>-1.03</td><td>-0.68</td></tr><tr><td>374</td><td>D</td><td>-</td><td>0.94</td><td>-</td><td>-</td></tr><tr><td>375</td><td>P</td><td>-</td><td>-2.74</td><td>-</td><td>-</td></tr><tr><td>376</td><td>I</td><td>-</td><td>-1.8</td><td>-</td><td>-</td></tr><tr><td>377</td><td>P</td><td>-</td><td>-1.63</td><td>-</td><td>-</td></tr><tr><td>378</td><td>A</td><td>-</td><td>-1.45</td><td>-</td><td>-</td></tr><tr><td>379</td><td>Q</td><td>-</td><td>-3.44</td><td>-</td><td>-</td></tr><tr><td>380</td><td>Y</td><td>-</td><td>-4.59</td><td>-</td><td>-</td></tr><tr><td>381</td><td>V</td><td>V</td><td>-4.1</td><td>-1.15</td><td>-2.95</td></tr><tr><td>382</td><td>R</td><td>R</td><td>-2.31</td><td>-4.1</td><td>1.79</td></tr><tr><td>383</td><td>V</td><td>-</td><td>-5.43</td><td>-</td><td>-</td></tr><tr><td>384</td><td>Y</td><td>-</td><td>0.67</td><td>-</td><td>-</td></tr><tr><td>385</td><td>P</td><td>-</td><td>-5.27</td><td>-</td><td>-</td></tr><tr><td>386</td><td>E</td><td>-</td><td>0.77</td><td>-</td><td>-</td></tr><tr><td>387</td><td>-</td><td>I</td><td>-</td><td>-5.28</td><td>-</td></tr><tr><td>388</td><td>R</td><td>R</td><td>4.74</td><td>-0.72</td><td>5.47</td></tr><tr><td>389</td><td>-</td><td>P</td><td>-</td><td>-5.82</td><td>-</td></tr><tr><td>390</td><td>-</td><td>Q</td><td>-</td><td>-1.19</td><td>-</td></tr><tr><td>391</td><td>-</td><td>T</td><td>-</td><td>0.77</td><td>-</td></tr><tr><td>392</td><td>W</td><td>W</td><td>-2.82</td><td>-3.37</td><td>0.55</td></tr><tr><td>393</td><td>-</td><td>H</td><td>-</td><td>2.43</td><td>-</td></tr><tr><td>394</td><td>S</td><td>S</td><td>-1.17</td><td>3.4</td><td>-4.57</td></tr><tr><td>395</td><td>P</td><td>-</td><td>0.04</td><td>-</td><td>-</td></tr><tr><td>396</td><td>A</td><td>-</td><td>0.46</td><td>-</td><td>-</td></tr><tr><td>397</td><td>G</td><td>G</td><td>-2.8</td><td>-0.56</td><td>-2.24</td></tr><tr><td>398</td><td>I</td><td>I</td><td>-1.33</td><td>-4.2</td><td>2.87</td></tr><tr><td>399</td><td>G</td><td>-</td><td>-0.07</td><td>-</td><td>-</td></tr><tr><td>400</td><td>M</td><td>-</td><td>-1.82</td><td>-</td><td>-</td></tr><tr><td>401</td><td>-</td><td>A</td><td>-</td><td>-1.64</td><td>-</td></tr><tr><td>402</td><td>-</td><td>L</td><td>-</td><td>4.44</td><td>-</td></tr><tr><td>403</td><td>R</td><td>R</td><td>-2.49</td><td>0.1</td><td>-2.59</td></tr><tr><td>404</td><td>L</td><td>L</td><td>-2.37</td><td>-2.43</td><td>0.05</td></tr><tr><td>405</td><td>E</td><td>E</td><td>-4.58</td><td>-4.8</td><td>0.22</td></tr><tr><td>406</td><td>V</td><td>-</td><td>-5.58</td><td>-</td><td>-</td></tr><tr><td>407</td><td>L</td><td>L</td><td>-6.88</td><td>-8.51</td><td>1.63</td></tr><tr><td>408</td><td>-</td><td>F</td><td>-</td><td>-5.02</td><td>-</td></tr><tr><td>409</td><td>G</td><td>G</td><td>-3.75</td><td>-3.52</td><td>-0.23</td></tr><tr><td>410</td><td>C</td><td>C</td><td>0.48</td><td>-0.42</td><td>0.9</td></tr><tr><td>411</td><td>D</td><td>-</td><td>0.33</td><td>-</td><td>-</td></tr><tr><td>412</td><td>W</td><td>-</td><td>2.52</td><td>-</td><td>-</td></tr><tr><td>413</td><td>-</td><td>R</td><td>-</td><td>3.21</td><td>-</td></tr><tr><td>414</td><td>-</td><td>V</td><td>-</td><td>-2.66</td><td>-</td></tr><tr><td>415</td><td>T</td><td>T</td><td>5.29</td><td>1.29</td><td>4.0</td></tr><tr><td>416</td><td>-</td><td>D</td><td>-</td><td>2.92</td><td>-</td></tr><tr><td>417</td><td>-</td><td>A</td><td>-</td><td>0.51</td><td>-</td></tr><tr><td>418</td><td>-</td><td>P</td><td>-</td><td>-3.83</td><td>-</td></tr><tr><td>419</td><td>-</td><td>C</td><td>-</td><td>2.6</td><td>-</td></tr><tr><td>420</td><td>-</td><td>S</td><td>-</td><td>3.34</td><td>-</td></tr><tr><td>421</td><td>-</td><td>N</td><td>-</td><td>3.55</td><td>-</td></tr><tr><td>422</td><td>-</td><td>M</td><td>-</td><td>-1.7</td><td>-</td></tr><tr><td>423</td><td>-</td><td>L</td><td>-</td><td>11.43</td><td>-</td></tr><tr><td>424</td><td>-</td><td>G</td><td>-</td><td>0.19</td><td>-</td></tr><tr><td>425</td><td>-</td><td>M</td><td>-</td><td>-0.42</td><td>-</td></tr><tr><td>426</td><td>-</td><td>L</td><td>-</td><td>-4.18</td><td>-</td></tr><tr><td>427</td><td>-</td><td>S</td><td>-</td><td>-1.23</td><td>-</td></tr><tr><td>428</td><td>-</td><td>G</td><td>-</td><td>-0.07</td><td>-</td></tr><tr><td>429</td><td>-</td><td>L</td><td>-</td><td>-1.25</td><td>-</td></tr><tr><td>430</td><td>-</td><td>I</td><td>-</td><td>-2.56</td><td>-</td></tr><tr><td>431</td><td>-</td><td>A</td><td>-</td><td>-2.49</td><td>-</td></tr><tr><td>432</td><td>-</td><td>D</td><td>-</td><td>4.95</td><td>-</td></tr><tr><td>433</td><td>-</td><td>S</td><td>-</td><td>0.79</td><td>-</td></tr><tr><td>434</td><td>-</td><td>Q</td><td>-</td><td>-2.06</td><td>-</td></tr><tr><td>435</td><td>-</td><td>I</td><td>-</td><td>2.15</td><td>-</td></tr><tr><td>436</td><td>-</td><td>S</td><td>-</td><td>1.02</td><td>-</td></tr><tr><td>437</td><td>-</td><td>A</td><td>-</td><td>-0.16</td><td>-</td></tr><tr><td>438</td><td>-</td><td>S</td><td>-</td><td>2.03</td><td>-</td></tr><tr><td>439</td><td>X</td><td>X</td><td>0.56</td><td>-0.07</td><td>0.63</td></tr></table></div>
 </body></html>
